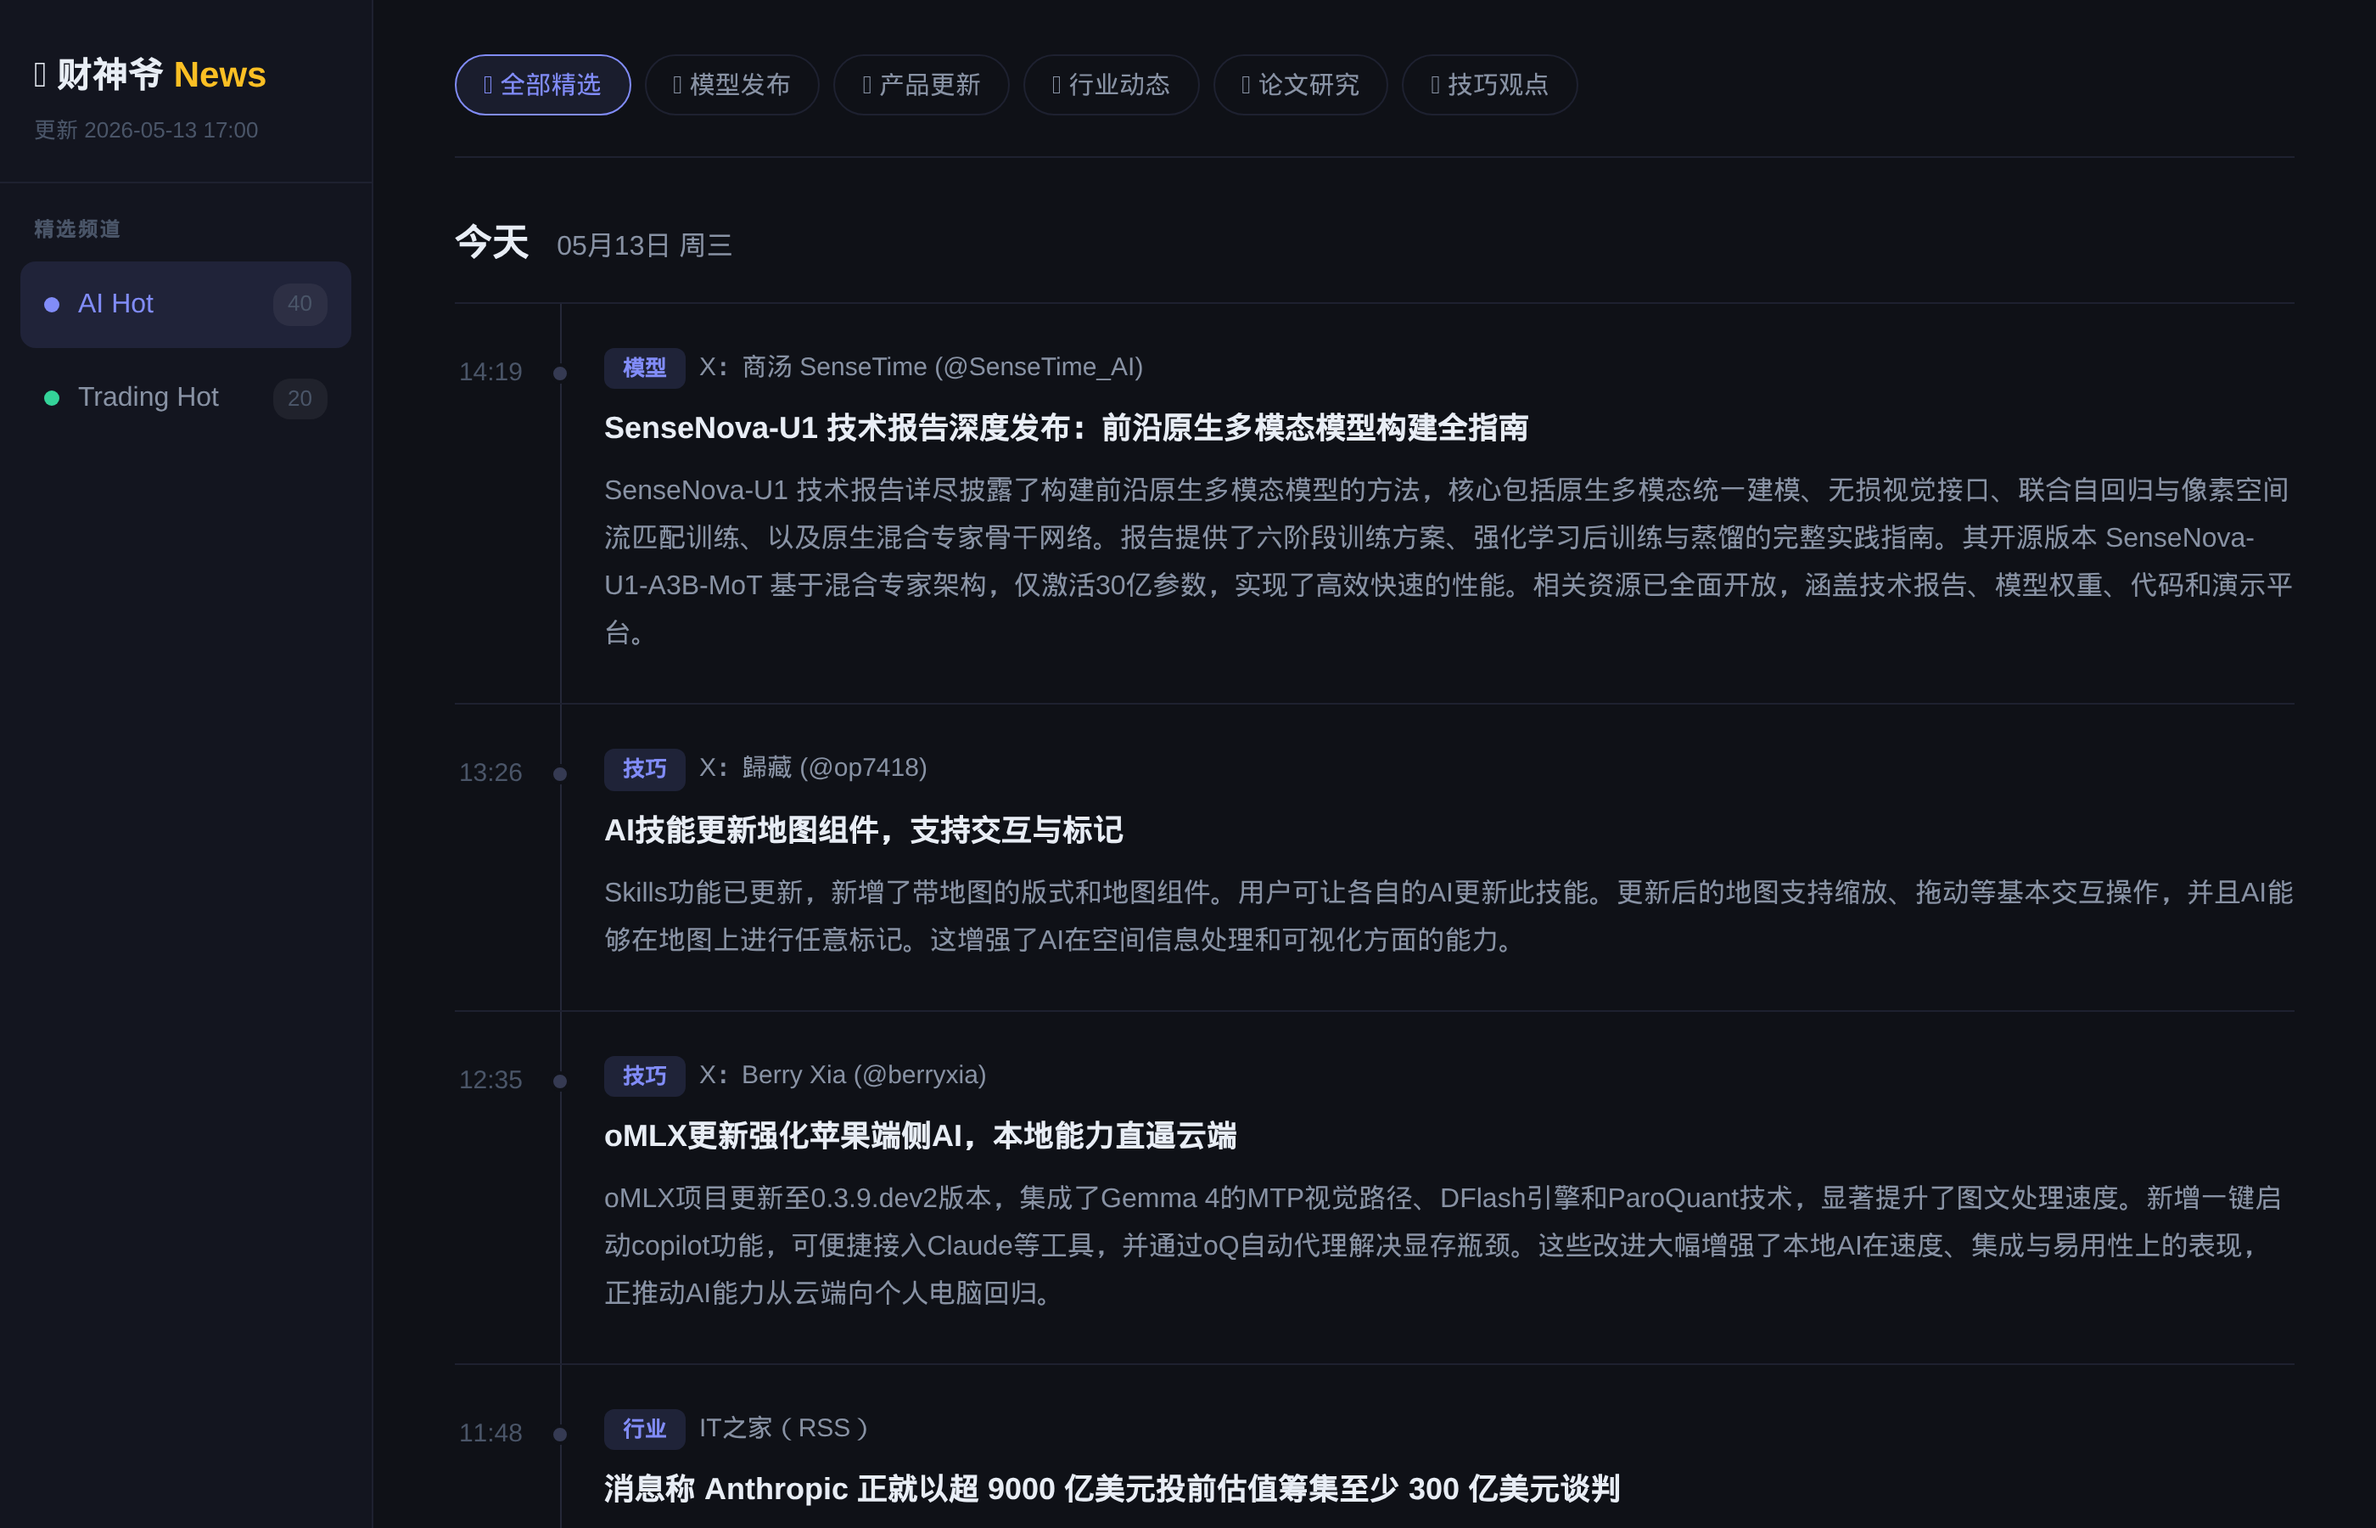
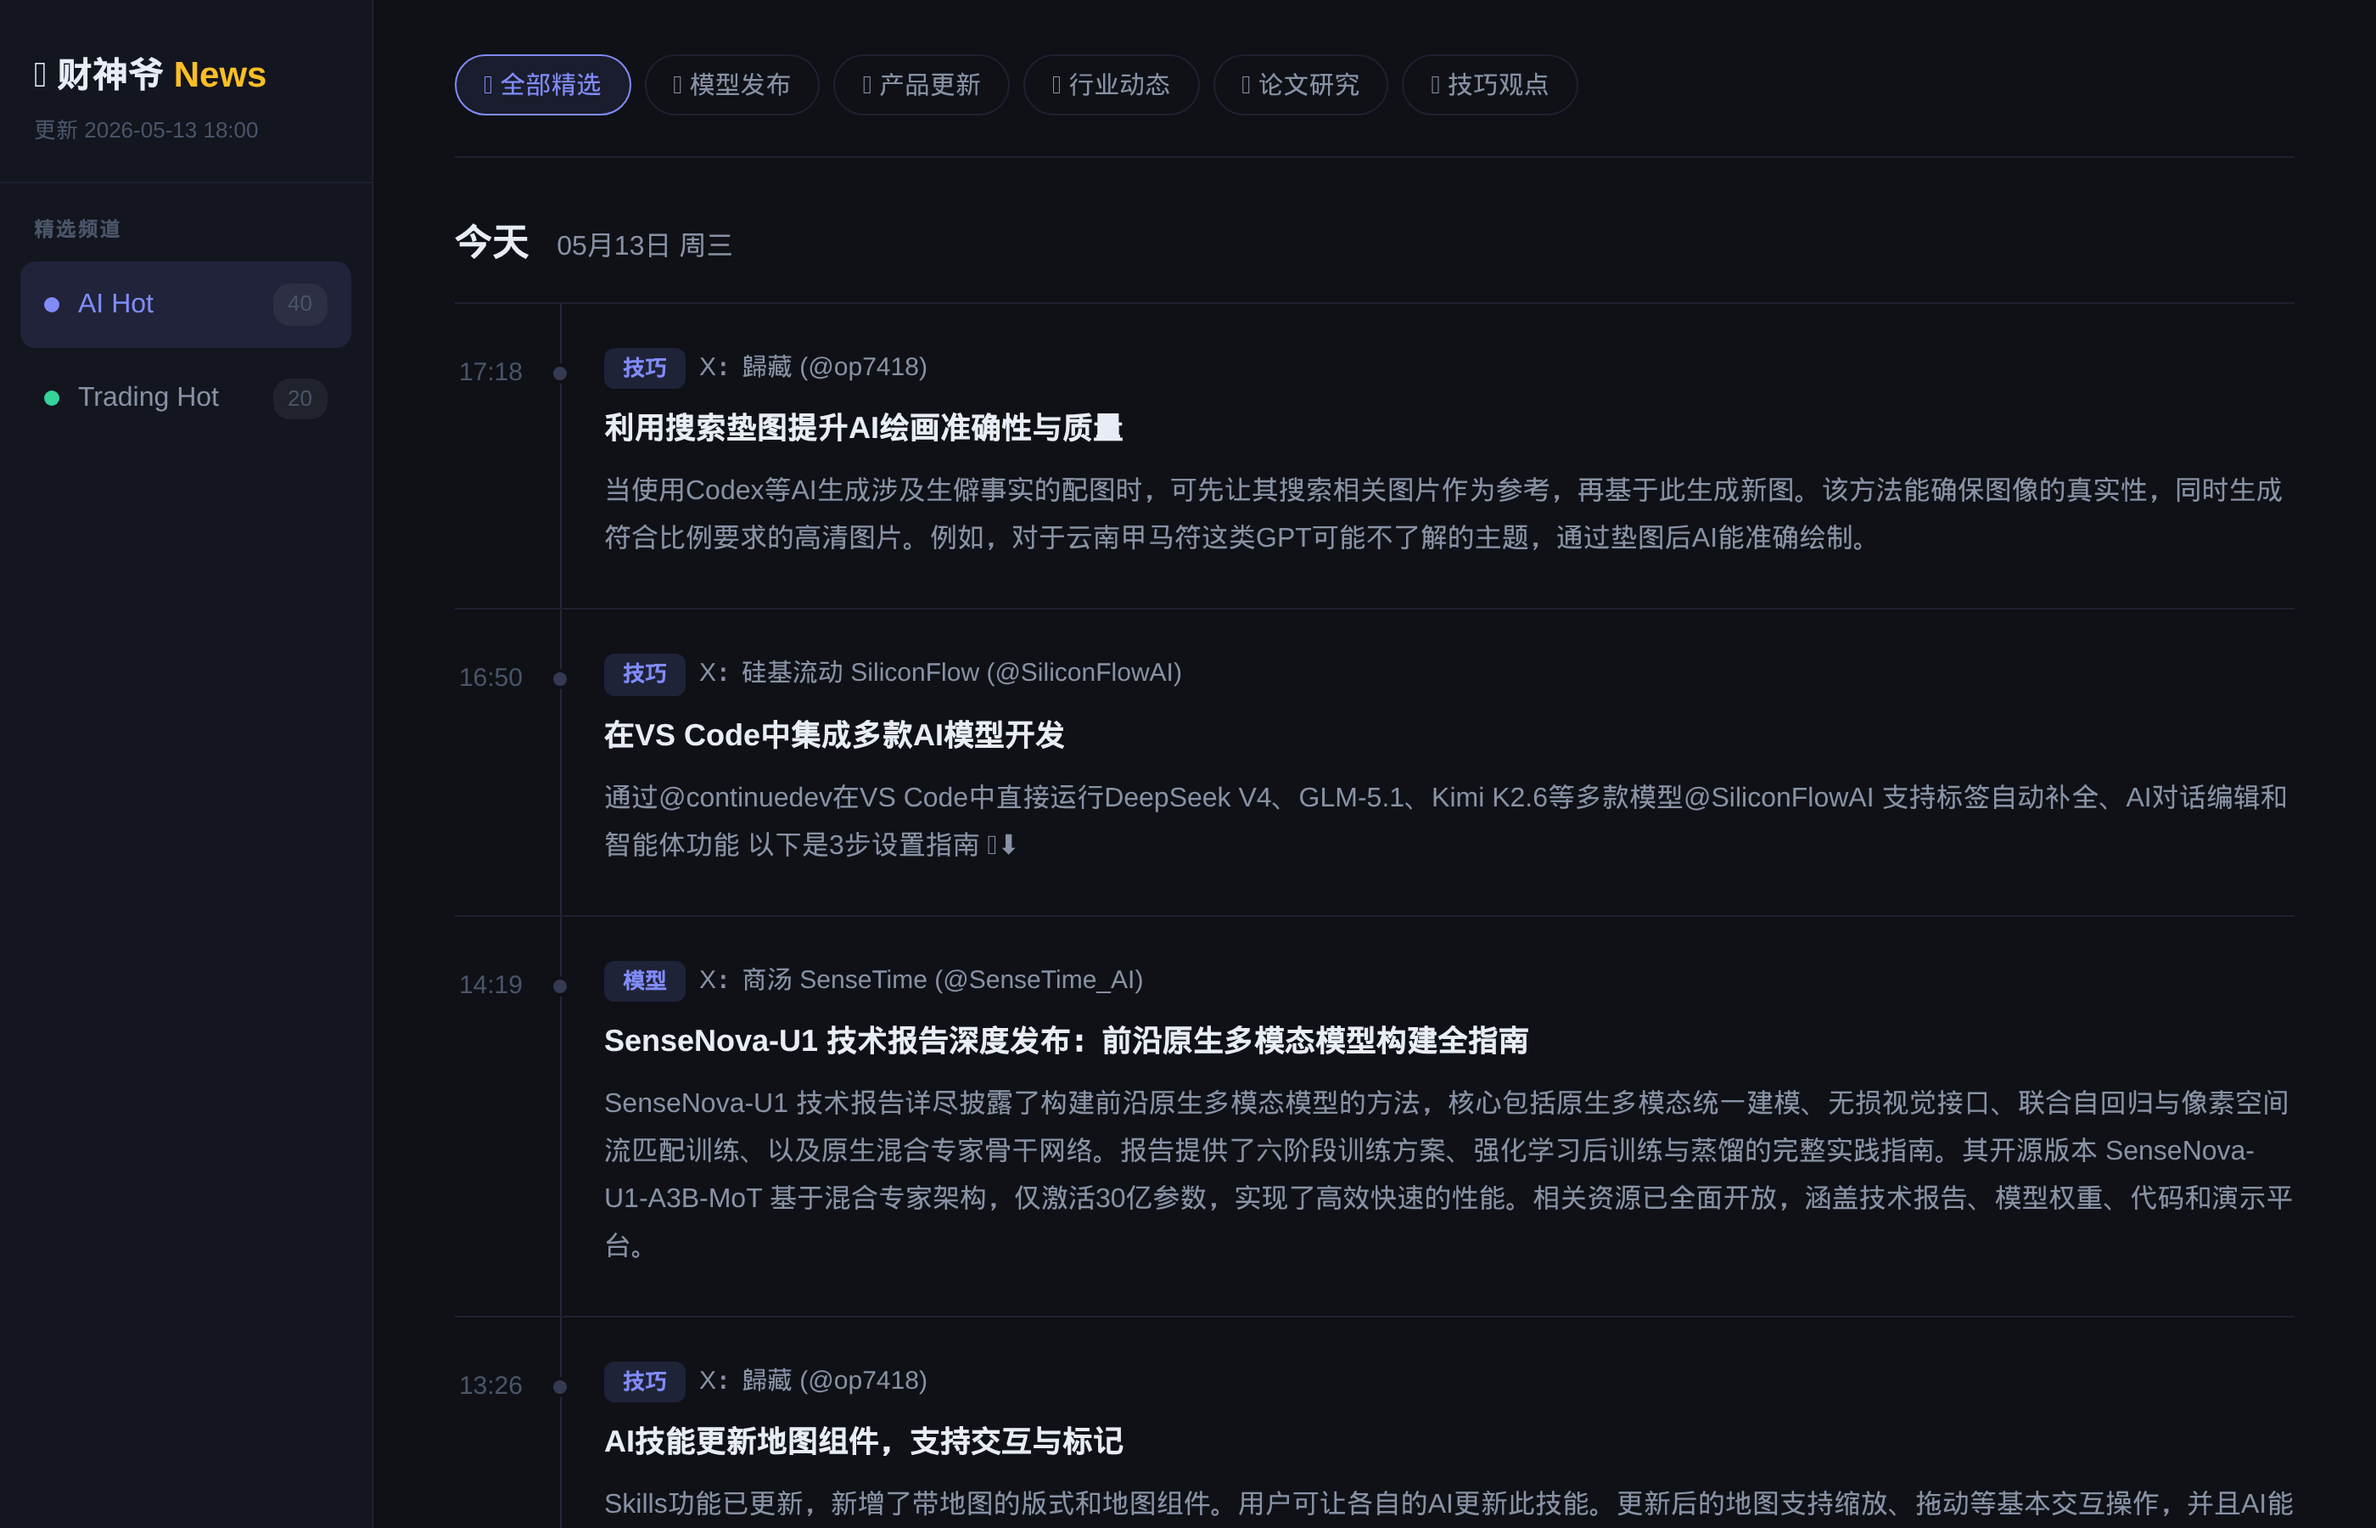
auto update 2026-05-13 18:01

Changed region(s): [[0.2486, 0.2178, 0.9632, 0.9956], [0.5593, 0.4978, 0.9632, 0.5289], [0.1864, 0.4356, 0.2175, 0.4667]]

diff --git a/index.html b/index.html
@@ -106,7 +106,7 @@ body{font-family:-apple-system,BlinkMacSystemFont,"Segoe UI","PingFang SC","Micr
 <body>
 <aside class="sb">
   <div class="sb-logo">💰 财神爷 <span>News</span>
-    <div class="sb-up">更新 2026-05-13 17:00</div>
+    <div class="sb-up">更新 2026-05-13 18:00</div>
   </div>
   <nav class="sb-nav">
     <div class="nav-lbl">精选频道</div>
@@ -124,6 +124,27 @@ body{font-family:-apple-system,BlinkMacSystemFont,"Segoe UI","PingFang SC","Micr
         <div class="dgroup">
       <div class="dheader">今天 <span class='dsub'>05月13日 周三</span></div>
       <div class="ilist">
+      <div class="item" data-cats="tip">
+        <div class="item-time">17:18</div>
+        <div class="item-body">
+          <div class="item-meta"><span class="badge badge-ai">技巧</span><span class="isrc">X：歸藏 (@op7418)</span></div>
+          <a class="item-title" href="https://x.com/op7418/status/2054491392261632448" target="_blank" rel="noopener">利用搜索垫图提升AI绘画准确性与质量</a>
+          <div class="item-summary">当使用Codex等AI生成涉及生僻事实的配图时，可先让其搜索相关图片作为参考，再基于此生成新图。该方法能确保图像的真实性，同时生成符合比例要求的高清图片。例如，对于云南甲马符这类GPT可能不了解的主题，通过垫图后AI能准确绘制。</div>
+        </div>
+      </div>
+
+      <div class="item" data-cats="tip">
+        <div class="item-time">16:50</div>
+        <div class="item-body">
+          <div class="item-meta"><span class="badge badge-ai">技巧</span><span class="isrc">X：硅基流动 SiliconFlow (@SiliconFlowAI)</span></div>
+          <a class="item-title" href="https://x.com/SiliconFlowAI/status/2054484427192050041" target="_blank" rel="noopener">在VS Code中集成多款AI模型开发</a>
+          <div class="item-summary">通过@continuedev在VS Code中直接运行DeepSeek V4、GLM-5.1、Kimi K2.6等多款模型@SiliconFlowAI
+支持标签自动补全、AI对话编辑和智能体功能
+
+以下是3步设置指南 🧵⬇</div>
+        </div>
+      </div>
+
       <div class="item" data-cats="ai-models">
         <div class="item-time">14:19</div>
         <div class="item-body">
@@ -510,24 +531,6 @@ https：//x.com/browser_use/status/2054330495249564094/video/1</div>
           <div class="item-summary">MatterSim正在拓展AI在材料科学中的应用边界--从更快速的大规模模拟，到全新多任务模型MatterSim-MT，可模拟超越势能面的多种物性。https：//msft.it/6017vPamT</div>
         </div>
       </div>
-
-      <div class="item" data-cats="tip">
-        <div class="item-time">20:26</div>
-        <div class="item-body">
-          <div class="item-meta"><span class="badge badge-ai">技巧</span><span class="isrc">X：Berry Xia (@berryxia)</span></div>
-          <a class="item-title" href="https://x.com/berryxia/status/2054176298579468338" target="_blank" rel="noopener">导出消费数据赋能AI Agent个性化服务</a>
-          <div class="item-summary">AI Agent需要用户消费上下文才能充当个人管家，作者调研了主流消费平台的订单导出方法。淘宝提供导出功能；京东无官方支持，但通过Codex定制Chrome插件实现一键导出，并开源在Github；闪购（饿了么）可申请导出Excel；美团外卖暂无方法；大众点评通过定制插件导出收藏列表。作者开源了京东和大众点评的导出工具，鼓励用户利用这些数据让AI Agent进行个性化分析，以提升服务实用性。</div>
-        </div>
-      </div>
-
-      <div class="item" data-cats="tip">
-        <div class="item-time">18:04</div>
-        <div class="item-body">
-          <div class="item-meta"><span class="badge badge-ai">技巧</span><span class="isrc">X：可灵 Kling AI (@Kling_ai)</span></div>
-          <a class="item-title" href="https://x.com/Kling_ai/status/2054140718776549704" target="_blank" rel="noopener">结合GPT与Kling AI生成超写实F1直播截图</a>
-          <div class="item-summary">用户利用GPT image 2与Kling AI，根据详细提示词生成了一张模拟电视转播视角的超写实F1赛事直播截图。画面聚焦于一位在VIP围场/车队车库中的年轻女性，其身份特征从参考图像中被精确保留。她佩戴专业赛车耳机，神情紧张专注，画面包含&quot;FINAL LAP&quot;横幅、计时塔、直播标识等完整的转播图形元素。作品特别注重广播级细节，如压缩伪影、自然肤质和8K画质，旨在完美呈现如同真实电视截图的视觉效果。</div>
-        </div>
-      </div>
       </div>
     </div>
   </div>
@@ -536,7 +539,7 @@ https：//x.com/browser_use/status/2054330495249564094/video/1</div>
         <div class="dgroup">
       <div class="dheader">今天 <span class='dsub'>05月13日 周三</span></div>
       <div class="ilist">
-      <div class="item" data-cats="crypto top">
+      <div class="item" data-cats="top crypto">
         <div class="item-time">04:56</div>
         <div class="item-body">
           <div class="item-meta"><span class="badge badge-trading">加密</span><span class="score-badge">72分</span><span class="isrc">The Block</span><span class="ticker">$C</span><span class="ticker">$COIN</span></div>
@@ -556,7 +559,7 @@ https：//x.com/browser_use/status/2054330495249564094/video/1</div>
         </div>
       </div>
 
-      <div class="item" data-cats="crypto top ai_tech">
+      <div class="item" data-cats="ai_tech top crypto">
         <div class="item-time">04:46</div>
         <div class="item-body">
           <div class="item-meta"><span class="badge badge-trading">加密</span><span class="score-badge">68分</span><span class="isrc">Decrypt</span><span class="ticker">$F</span></div>
@@ -576,7 +579,7 @@ https：//x.com/browser_use/status/2054330495249564094/video/1</div>
         </div>
       </div>
 
-      <div class="item" data-cats="top ai_tech">
+      <div class="item" data-cats="ai_tech top">
         <div class="item-time">04:36</div>
         <div class="item-body">
           <div class="item-meta"><span class="badge badge-trading">市场异动</span><span class="score-badge">67分</span><span class="isrc">MarketWatch Top Stories</span><span class="ticker">$V</span></div>
@@ -606,7 +609,7 @@ https：//x.com/browser_use/status/2054330495249564094/video/1</div>
         </div>
       </div>
 
-      <div class="item" data-cats="crypto top ai_tech">
+      <div class="item" data-cats="ai_tech top crypto">
         <div class="item-time">03:45</div>
         <div class="item-body">
           <div class="item-meta"><span class="badge badge-trading">加密</span><span class="score-badge">69分</span><span class="isrc">Decrypt</span><span class="ticker">$BTC</span><span class="ticker">$MARA</span></div>
@@ -656,7 +659,7 @@ https：//x.com/browser_use/status/2054330495249564094/video/1</div>
         </div>
       </div>
 
-      <div class="item" data-cats="top geo macro">
+      <div class="item" data-cats="top macro geo">
         <div class="item-time">02:10</div>
         <div class="item-body">
           <div class="item-meta"><span class="badge badge-trading">市场异动</span><span class="score-badge">72分</span><span class="isrc">CNBC Top News</span><span class="ticker">$C</span></div>
@@ -720,7 +723,7 @@ https：//x.com/browser_use/status/2054330495249564094/video/1</div>
         </div>
       </div>
 
-      <div class="item" data-cats="crypto top">
+      <div class="item" data-cats="top crypto">
         <div class="item-time">22:37</div>
         <div class="item-body">
           <div class="item-meta"><span class="badge badge-trading">加密</span><span class="score-badge">70分</span><span class="isrc">Decrypt</span><span class="ticker">$C</span></div>
@@ -730,7 +733,7 @@ https：//x.com/browser_use/status/2054330495249564094/video/1</div>
         </div>
       </div>
 
-      <div class="item" data-cats="crypto top">
+      <div class="item" data-cats="top crypto">
         <div class="item-time">19:55</div>
         <div class="item-body">
           <div class="item-meta"><span class="badge badge-trading">加密</span><span class="score-badge">75分</span><span class="isrc">Decrypt</span><span class="ticker">$C</span></div>
